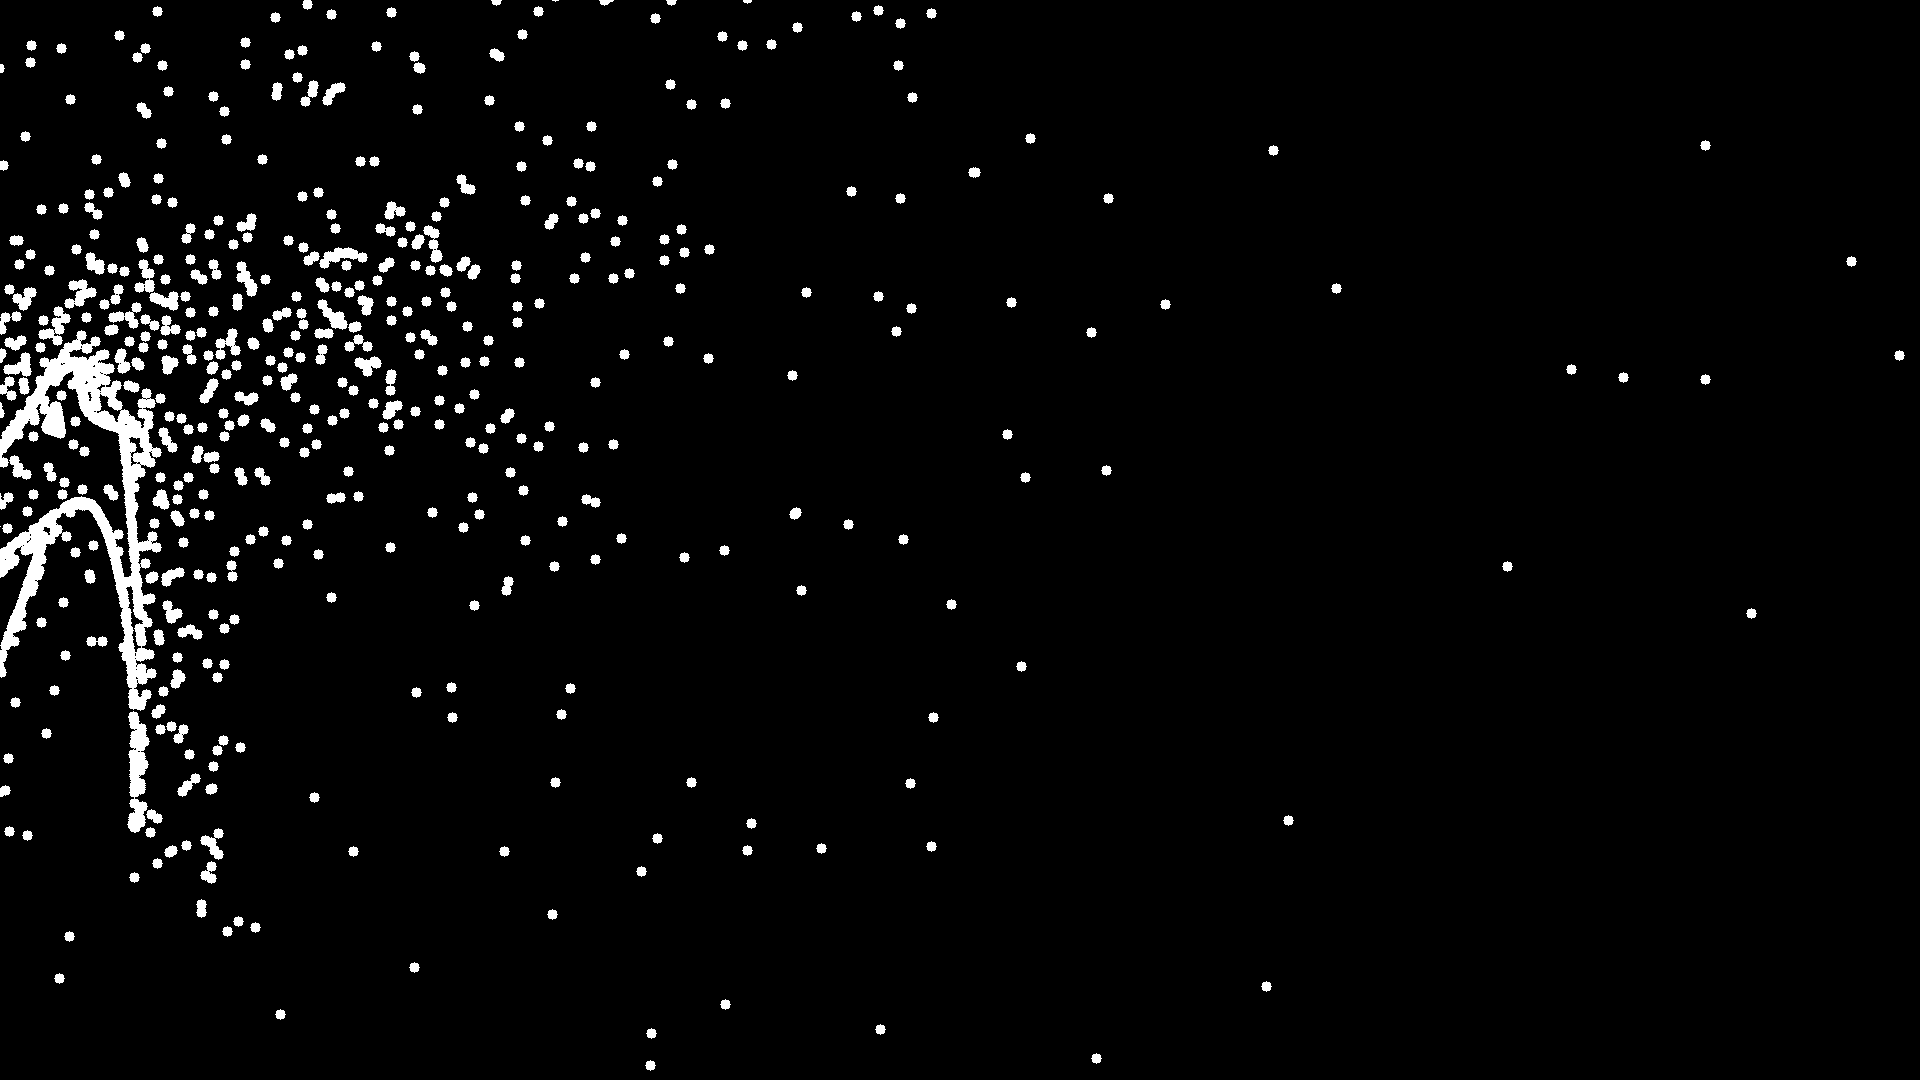
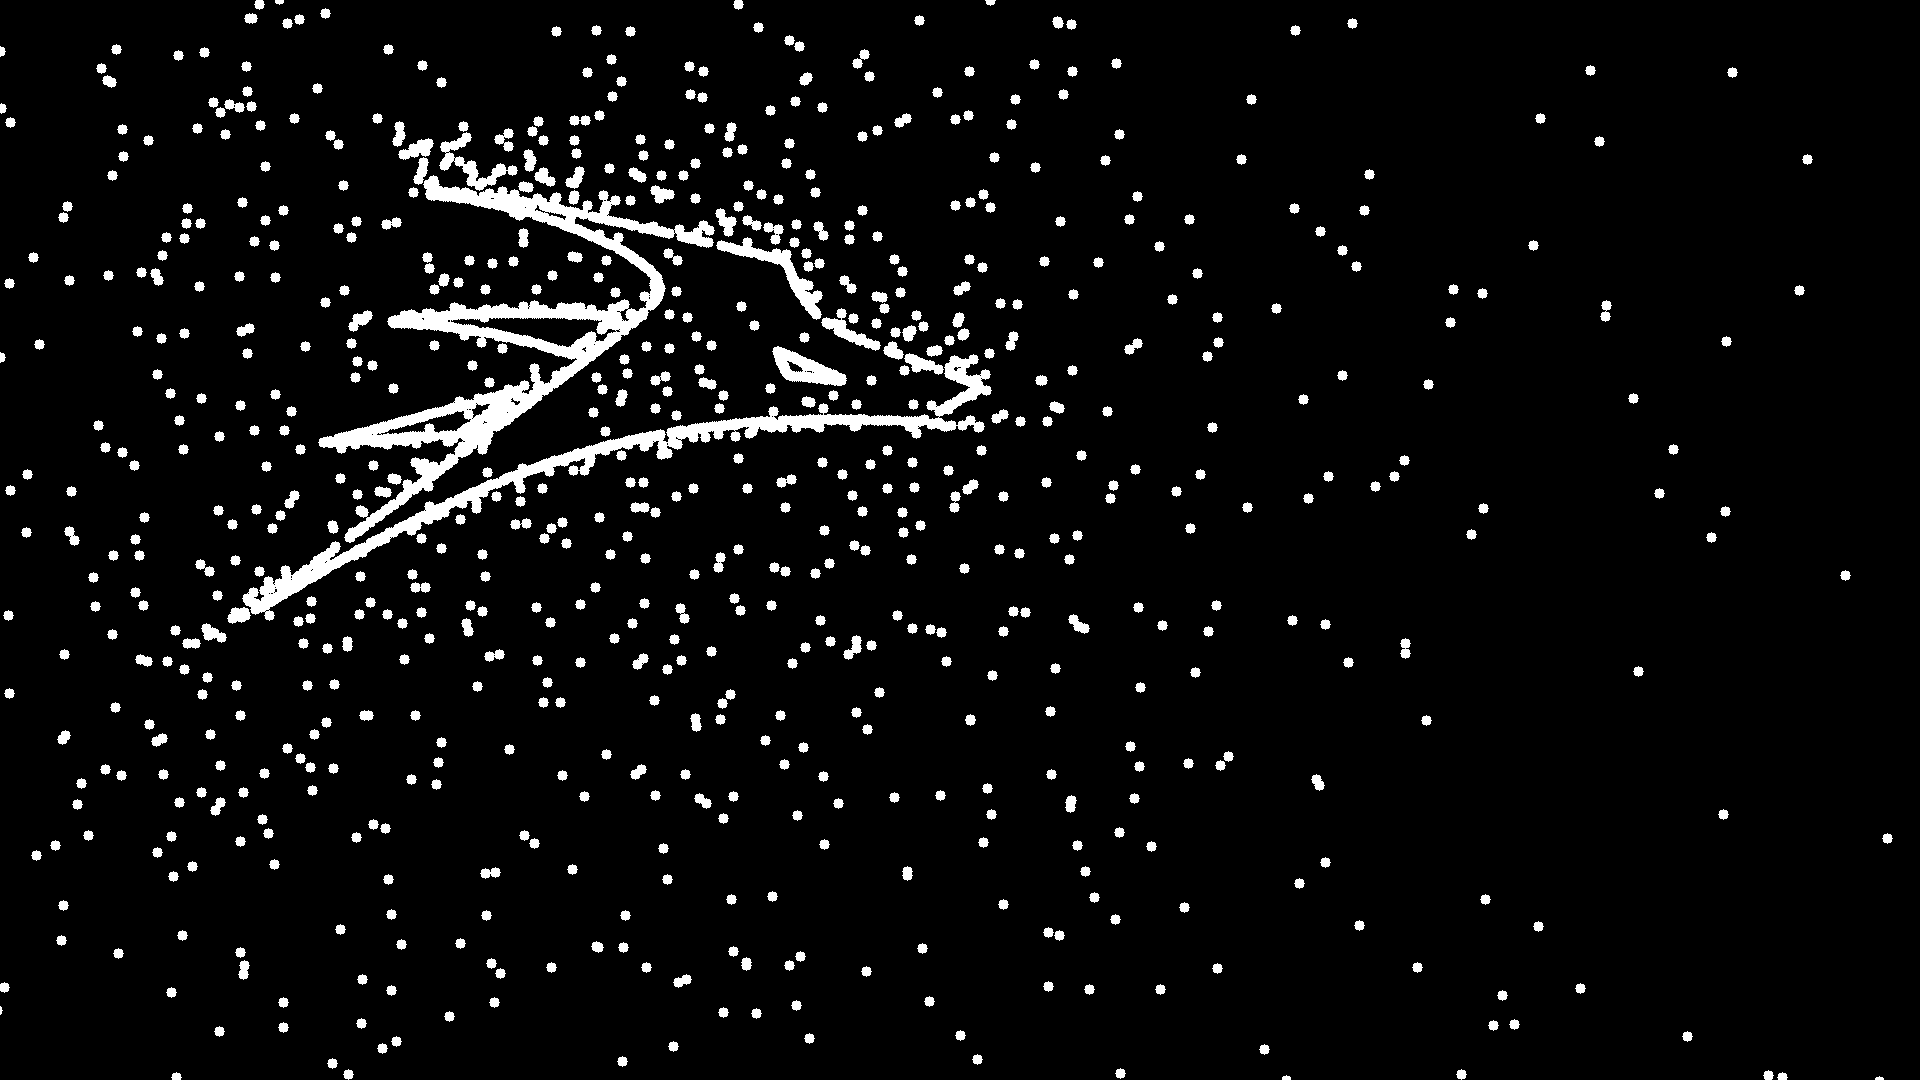
homework1: photograph: correct

diff --git a/胡哲铖/homework1/photograph/photograph.cpp b/胡哲铖/homework1/photograph/photograph.cpp
@@ -39,7 +39,7 @@ int main(){
     //将每个点变换后画上去
     for (const auto& point : points){
         Vector3f pointPosInWorld(point.x,point.y,point.z); 
-        Vector3f pointPosInCamera = cameraQuat * (pointPosInWorld - cameraPos);
+        Vector3f pointPosInCamera = cameraQuat.inverse() * (pointPosInWorld - cameraPos);
         float x = cameraMatrix.at<float>(0, 0) * pointPosInCamera[0] + cameraMatrix.at<float>(0, 2) * pointPosInCamera[2];
         float y = cameraMatrix.at<float>(1, 1) * pointPosInCamera[1] + cameraMatrix.at<float>(1, 2) * pointPosInCamera[2];
         float z = pointPosInCamera[2];
